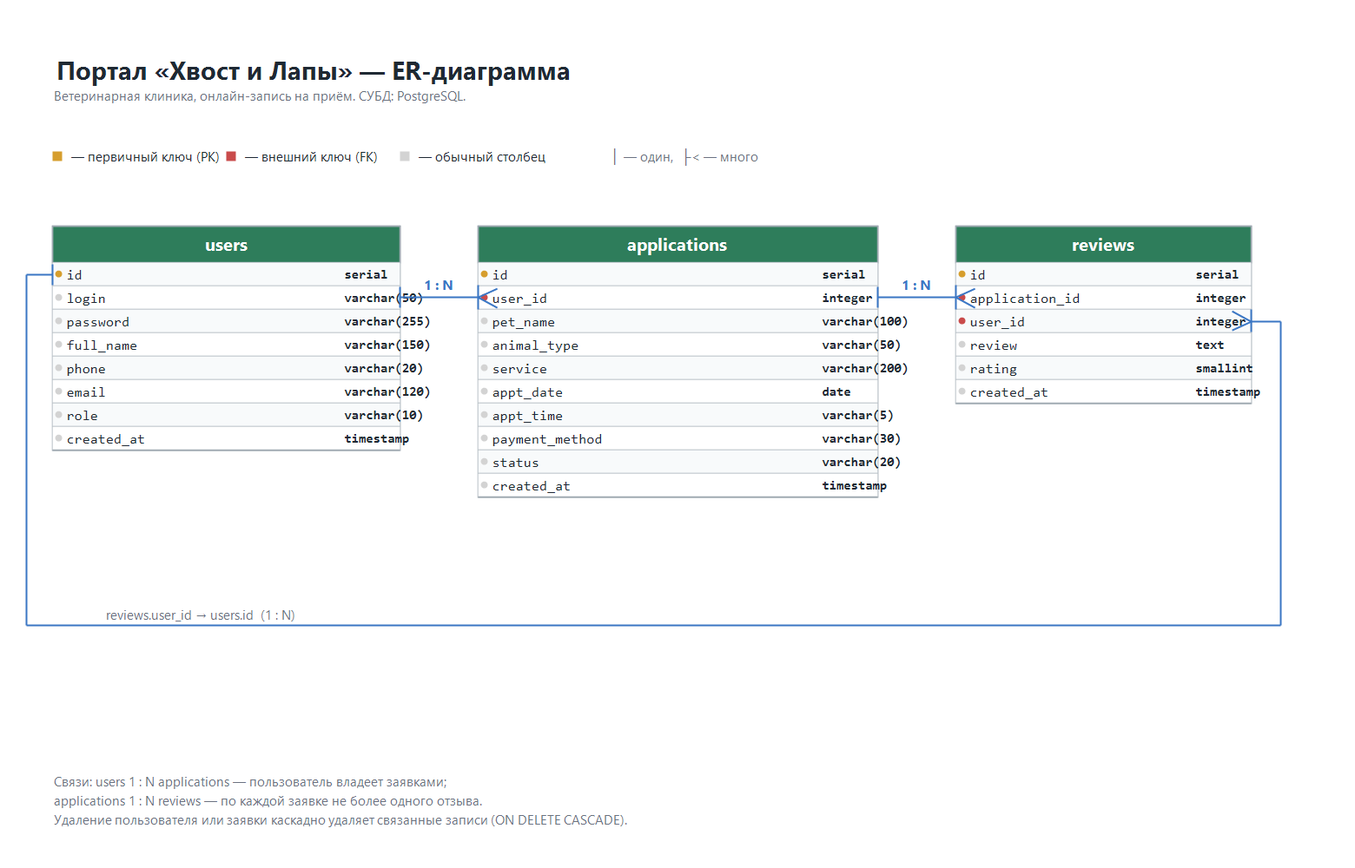
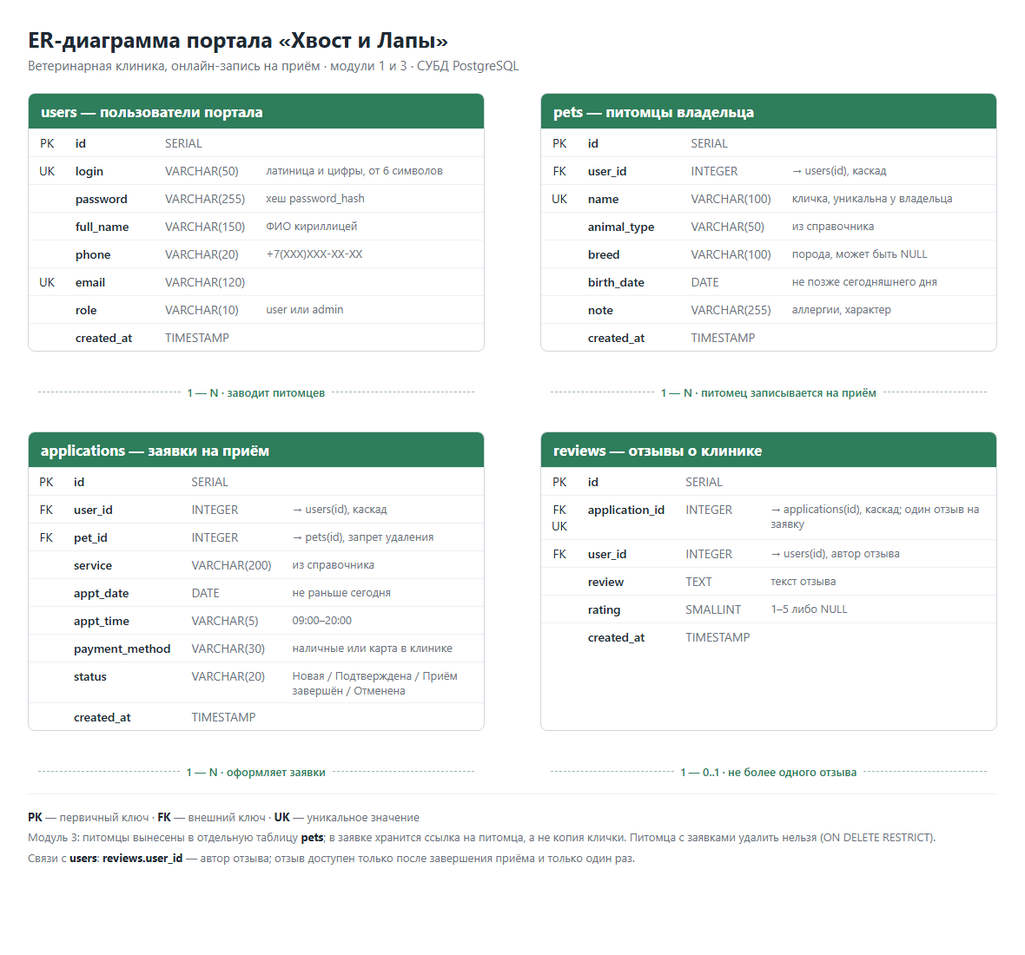
Модуль 3 конец: документация, ER-диаграмма, финальная проверка
- README переписан под итог модуля 3: профиль питомцев, отмена заявки,
  анимации, адаптивность 390/768/1280, список классов и инструментов
- er_diagram.mmd дополнен таблицей pets
- er_diagram.png перерисован: mermaid-cli в системе нет, поэтому диаграмма
  собирается из tools/er_diagram.html через Edge headless (tools/er_diagram.ps1)
- проверено: синтаксис всех PHP, node --check для app.js, смоук-тест на
  чистой базе, скриншоты 390 / 768 / 1280 px

diff --git a/tools/er_diagram.html b/tools/er_diagram.html
@@ -1,0 +1,179 @@
+<!DOCTYPE html>
+<html lang="ru">
+<head>
+    <meta charset="UTF-8">
+    <title>ER-диаграмма «Хвост и Лапы»</title>
+    <!--
+        Генератор backend/database/er_diagram.png.
+
+        mermaid-cli в системе нет, поэтому диаграмма рисуется обычным HTML
+        и снимается браузером в headless-режиме:
+
+            php -S 127.0.0.1:8088 -t .
+            powershell -NoProfile -ExecutionPolicy Bypass -File tools/er_diagram.ps1
+
+        Текстовый источник той же схемы — backend/database/er_diagram.mmd.
+    -->
+    <style>
+        * { box-sizing: border-box; }
+
+        body {
+            margin: 0;
+            padding: 28px 32px 24px;
+            width: 1180px;
+            background: #fff;
+            font-family: "Segoe UI", Arial, sans-serif;
+            color: #1f2933;
+        }
+
+        h1 { margin: 0 0 4px; font-size: 25px; }
+        p.sub { margin: 0 0 22px; color: #6b7280; font-size: 15px; }
+
+        .grid {
+            display: grid;
+            grid-template-columns: 1fr 1fr;
+            gap: 46px 64px;
+        }
+
+        .entity {
+            border: 1px solid #cfd6dd;
+            border-radius: 8px;
+            overflow: hidden;
+            background: #fff;
+        }
+
+        .entity__title {
+            padding: 9px 14px;
+            background: #2e7d5b;
+            color: #fff;
+            font-weight: 700;
+            font-size: 17px;
+        }
+
+        table { width: 100%; border-collapse: collapse; font-size: 14px; }
+
+        td {
+            padding: 6px 12px;
+            border-top: 1px solid #eef1f4;
+            vertical-align: top;
+        }
+
+        td.name { font-weight: 600; white-space: nowrap; }
+        td.type { color: #6b7280; white-space: nowrap; width: 92px; }
+        td.key  { white-space: nowrap; width: 34px; text-align: center; }
+        td.note { color: #6b7280; font-size: 13px; }
+
+        .rel {
+            display: flex;
+            align-items: center;
+            gap: 8px;
+            margin: -26px 0;
+            padding: 0 12px;
+            color: #2e7d5b;
+            font-size: 13px;
+            font-weight: 600;
+            white-space: nowrap;
+            background: #fff;
+            z-index: 2;
+        }
+
+        .rel::before,
+        .rel::after {
+            content: "";
+            flex: 1;
+            border-top: 1px dashed #9bb8ab;
+        }
+
+        .legend {
+            margin-top: 26px;
+            padding-top: 14px;
+            border-top: 1px solid #eef1f4;
+            font-size: 13px;
+            color: #6b7280;
+            line-height: 1.8;
+        }
+
+        .legend b { color: #1f2933; }
+    </style>
+</head>
+<body>
+
+<h1>ER-диаграмма портала «Хвост и Лапы»</h1>
+<p class="sub">Ветеринарная клиника, онлайн-запись на приём · модули 1 и 3 · СУБД PostgreSQL</p>
+
+<div class="grid">
+
+    <div class="entity">
+        <div class="entity__title">users — пользователи портала</div>
+        <table>
+            <tr><td class="key">PK</td><td class="name">id</td><td class="type">SERIAL</td><td class="note"></td></tr>
+            <tr><td class="key">UK</td><td class="name">login</td><td class="type">VARCHAR(50)</td><td class="note">латиница и цифры, от 6 символов</td></tr>
+            <tr><td class="key"></td><td class="name">password</td><td class="type">VARCHAR(255)</td><td class="note">хеш password_hash</td></tr>
+            <tr><td class="key"></td><td class="name">full_name</td><td class="type">VARCHAR(150)</td><td class="note">ФИО кириллицей</td></tr>
+            <tr><td class="key"></td><td class="name">phone</td><td class="type">VARCHAR(20)</td><td class="note">+7(XXX)XXX-XX-XX</td></tr>
+            <tr><td class="key">UK</td><td class="name">email</td><td class="type">VARCHAR(120)</td><td class="note"></td></tr>
+            <tr><td class="key"></td><td class="name">role</td><td class="type">VARCHAR(10)</td><td class="note">user или admin</td></tr>
+            <tr><td class="key"></td><td class="name">created_at</td><td class="type">TIMESTAMP</td><td class="note"></td></tr>
+        </table>
+    </div>
+
+    <div class="entity">
+        <div class="entity__title">pets — питомцы владельца</div>
+        <table>
+            <tr><td class="key">PK</td><td class="name">id</td><td class="type">SERIAL</td><td class="note"></td></tr>
+            <tr><td class="key">FK</td><td class="name">user_id</td><td class="type">INTEGER</td><td class="note">→ users(id), каскад</td></tr>
+            <tr><td class="key">UK</td><td class="name">name</td><td class="type">VARCHAR(100)</td><td class="note">кличка, уникальна у владельца</td></tr>
+            <tr><td class="key"></td><td class="name">animal_type</td><td class="type">VARCHAR(50)</td><td class="note">из справочника</td></tr>
+            <tr><td class="key"></td><td class="name">breed</td><td class="type">VARCHAR(100)</td><td class="note">порода, может быть NULL</td></tr>
+            <tr><td class="key"></td><td class="name">birth_date</td><td class="type">DATE</td><td class="note">не позже сегодняшнего дня</td></tr>
+            <tr><td class="key"></td><td class="name">note</td><td class="type">VARCHAR(255)</td><td class="note">аллергии, характер</td></tr>
+            <tr><td class="key"></td><td class="name">created_at</td><td class="type">TIMESTAMP</td><td class="note"></td></tr>
+        </table>
+    </div>
+
+    <div class="rel">1 — N · заводит питомцев</div>
+    <div class="rel">1 — N · питомец записывается на приём</div>
+
+    <div class="entity">
+        <div class="entity__title">applications — заявки на приём</div>
+        <table>
+            <tr><td class="key">PK</td><td class="name">id</td><td class="type">SERIAL</td><td class="note"></td></tr>
+            <tr><td class="key">FK</td><td class="name">user_id</td><td class="type">INTEGER</td><td class="note">→ users(id), каскад</td></tr>
+            <tr><td class="key">FK</td><td class="name">pet_id</td><td class="type">INTEGER</td><td class="note">→ pets(id), запрет удаления</td></tr>
+            <tr><td class="key"></td><td class="name">service</td><td class="type">VARCHAR(200)</td><td class="note">из справочника</td></tr>
+            <tr><td class="key"></td><td class="name">appt_date</td><td class="type">DATE</td><td class="note">не раньше сегодня</td></tr>
+            <tr><td class="key"></td><td class="name">appt_time</td><td class="type">VARCHAR(5)</td><td class="note">09:00–20:00</td></tr>
+            <tr><td class="key"></td><td class="name">payment_method</td><td class="type">VARCHAR(30)</td><td class="note">наличные или карта в клинике</td></tr>
+            <tr><td class="key"></td><td class="name">status</td><td class="type">VARCHAR(20)</td><td class="note">Новая / Подтверждена / Приём завершён / Отменена</td></tr>
+            <tr><td class="key"></td><td class="name">created_at</td><td class="type">TIMESTAMP</td><td class="note"></td></tr>
+        </table>
+    </div>
+
+    <div class="entity">
+        <div class="entity__title">reviews — отзывы о клинике</div>
+        <table>
+            <tr><td class="key">PK</td><td class="name">id</td><td class="type">SERIAL</td><td class="note"></td></tr>
+            <tr><td class="key">FK<br>UK</td><td class="name">application_id</td><td class="type">INTEGER</td><td class="note">→ applications(id), каскад; один отзыв на заявку</td></tr>
+            <tr><td class="key">FK</td><td class="name">user_id</td><td class="type">INTEGER</td><td class="note">→ users(id), автор отзыва</td></tr>
+            <tr><td class="key"></td><td class="name">review</td><td class="type">TEXT</td><td class="note">текст отзыва</td></tr>
+            <tr><td class="key"></td><td class="name">rating</td><td class="type">SMALLINT</td><td class="note">1–5 либо NULL</td></tr>
+            <tr><td class="key"></td><td class="name">created_at</td><td class="type">TIMESTAMP</td><td class="note"></td></tr>
+        </table>
+    </div>
+
+    <div class="rel">1 — N · оформляет заявки</div>
+    <div class="rel">1 — 0..1 · не более одного отзыва</div>
+
+</div>
+
+<div class="legend">
+    <b>PK</b> — первичный ключ · <b>FK</b> — внешний ключ · <b>UK</b> — уникальное значение<br>
+    Модуль 3: питомцы вынесены в отдельную таблицу <b>pets</b>; в заявке хранится ссылка
+    на питомца, а не копия клички. Питомца с заявками удалить нельзя
+    (<span>ON DELETE RESTRICT</span>).<br>
+    Связи с <b>users</b>: <b>reviews.user_id</b> — автор отзыва;
+    отзыв доступен только после завершения приёма и только один раз.
+</div>
+
+</body>
+</html>

diff --git a/README.md b/README.md
@@ -10,16 +10,25 @@
 
 - **Регистрация** владельца питомца с проверкой формата логина, ФИО, телефона, почты и пароля.
 - **Авторизация** с проверкой пароля на сервере (`password_hash` / `password_verify`).
-- **Личный кабинет**: список своих заявок с текущим статусом и возможность оставить отзыв
-  после завершения приёма.
+- **Профиль питомцев**: питомец добавляется один раз (кличка, вид, порода,
+  дата рождения, заметка), а при записи выбирается из списка. Питомца,
+  на которого есть заявки, удалить нельзя — иначе записи остались бы без питомца.
+- **Личный кабинет**: список своих заявок с текущим статусом, **отмена заявки**
+  в статусе «Новая» с подтверждением и отзыв после завершения приёма.
 - **Панель администратора**: сводка по статусам, фильтр по статусу и услуге,
   поиск по кличке питомца или ФИО владельца, пагинация, всплывающие сообщения,
-  управление статусами.
-- **Запись на приём** из справочников: вид животного и услуга выбираются
-  из списка, время приёма ограничено часами работы клиники (09:00–20:00).
+  управление статусами. Смена статуса происходит без перезагрузки страницы:
+  бейдж, счётчики и список доступных переходов обновляются на месте.
+- **Запись на приём** из справочников: питомец и услуга выбираются из списков,
+  дата и время — нативные поля выбора. Время приёма ограничено часами работы
+  клиники (09:00–20:00) и проверяется дважды: браузером (атрибуты `min`/`max`/`step`)
+  и сервером (`Validator::time()` → `Schedule`).
 - **Слайдер** на главной странице: 4 изображения одинакового размера,
   автосмена каждые 3 секунды, кнопки «вперёд/назад», точки, свайп на смартфоне.
-- **Адаптивный дизайн**: все страницы рассчитаны на смартфон 390×844 px;
+- **Анимации**: плавное появление карточек, анимация смены статуса,
+  микроанимации кнопок и полей (hover / focus / ошибка), выезжающие уведомления.
+  Учитывается системная настройка «уменьшить движение».
+- **Адаптивный дизайн**: проверены ширины 390, 768 и 1280 px;
   таблица заявок на узком экране превращается в карточки.
 
 ## Жизненный цикл заявки
@@ -31,7 +40,8 @@
 ```
 
 Любой переход вне этой схемы отклоняется на сервере. Отзыв доступен только
-при статусе «Приём завершён» и только один раз на заявку.
+при статусе «Приём завершён» и только один раз на заявку. Отменяет заявку
+в статусе «Новая» и администратор, и сам владелец — из кабинета.
 
 ## Учётные записи
 
@@ -53,13 +63,17 @@
 | Часы работы | 09:00–20:00                                                               |
 | Оплата      | Наличными, Картой в клинике                                               |
 
+Вид животного указывается один раз — при добавлении питомца в профиль,
+а не в каждой заявке.
+
 ## Стек
 
 - **PHP 8.2** — серверная логика, ООП-классы
 - **PostgreSQL 18** — СУБД, PDO с подготовленными запросами
 - **Bootstrap 5.3** и **bootstrap-icons** — подключены локально
   (в `frontend/assets/vendor/`), интернет не нужен
-- **JavaScript** — слайдер, мобильное меню, клиентская валидация
+- **JavaScript** — слайдер, мобильное меню, клиентская валидация,
+  анимации, отправка формы смены статуса через `fetch`
 
 ## Структура проекта
 
@@ -71,6 +85,7 @@ Practic/
 │   ├── register.php
 │   ├── applications.php
 │   ├── application_create.php
+│   ├── pets.php                   профиль питомцев
 │   ├── admin.php
 │   ├── partials/
 │   │   ├── header.php
@@ -80,28 +95,41 @@ Practic/
 │       ├── js/app.js
 │       ├── img/                   логотип и изображения слайдера (1200×675, JPEG)
 │       └── vendor/                bootstrap/, bootstrap-icons/
-└── backend/                       только логика, без HTML-вёрстки
-    ├── config.php                 подключение, учётка администратора, справочники
-    ├── bootstrap.php              сессия, автозагрузка классов, хелперы
-    ├── classes/
-    │   ├── Database.php           обёртка над PDO
-    │   ├── Validator.php          правила валидации полей
-    │   ├── Auth.php               вход, выход, проверка ролей
-    │   ├── User.php
-    │   ├── Application.php        заявки, фильтры, поиск, пагинация
-    │   └── Review.php
-    ├── actions/                   обработчики форм (POST → redirect)
-    │   ├── register.php
-    │   ├── login.php
-    │   ├── logout.php
-    │   ├── application_create.php
-    │   ├── review_create.php
-    │   └── admin_status.php
-    └── database/
-        ├── dump.sql               структура БД и ограничения
-        ├── seed.php               начальные данные
-        ├── er_diagram.png         ER-диаграмма
-        └── er_diagram.mmd         текстовая версия диаграммы (Mermaid)
+├── backend/                       только логика, без HTML-вёрстки
+│   ├── config.php                 подключение, учётка администратора, справочники
+│   ├── bootstrap.php              сессия, автозагрузка классов, хелперы
+│   ├── classes/
+│   │   ├── Database.php           обёртка над PDO
+│   │   ├── Validator.php          правила валидации полей
+│   │   ├── Auth.php               вход, выход, проверка ролей
+│   │   ├── User.php
+│   │   ├── Pet.php                питомцы профиля
+│   │   ├── Application.php        заявки, фильтры, поиск, пагинация
+│   │   ├── ApplicationFilter.php  разбор фильтров панели администратора
+│   │   ├── Schedule.php           часы работы клиники
+│   │   └── Review.php
+│   ├── actions/                   обработчики форм (POST → redirect)
+│   │   ├── register.php
+│   │   ├── login.php
+│   │   ├── logout.php
+│   │   ├── pet_create.php
+│   │   ├── pet_delete.php
+│   │   ├── application_create.php
+│   │   ├── application_cancel.php
+│   │   ├── review_create.php
+│   │   └── admin_status.php
+│   └── database/
+│       ├── dump.sql               структура БД и ограничения
+│       ├── seed.php               начальные данные
+│       ├── er_diagram.png         ER-диаграмма
+│       └── er_diagram.mmd         текстовая версия диаграммы (Mermaid)
+├── tools/                         не часть приложения: проверка и отладка
+│   ├── smoke.php                  смоук-тест всех страниц и сценариев
+│   ├── reload_db.php              пересоздание БД по dump.sql
+│   ├── viewport.html              обёртка с iframe 390 px для скриншотов
+│   ├── screenshots.ps1            снятие скриншотов 390 / 768 / 1280 px
+│   ├── er_diagram.html            разметка ER-диаграммы
+│   └── er_diagram.ps1             пересборка backend/database/er_diagram.png
 ```
 
 ## Установка
@@ -120,8 +148,8 @@ Practic/
    php backend/database/seed.php
    ```
    Скрипт `seed.php` идемпотентен: повторный запуск не создаёт дубликаты.
-   Демо-данные — 8 заявок во всех статусах и по всем услугам (хватает
-   на две страницы пагинации) и один отзыв.
+   Демо-данные — 9 питомцев и 8 заявок во всех статусах и по всем услугам
+   (хватает на две страницы пагинации) и один отзыв.
 
    Если `dump.sql` уже загружался раньше и в нём появились новые ограничения,
    таблицы нужно пересоздать заново — скрипт начинается с `DROP TABLE`.
@@ -137,6 +165,10 @@ Practic/
 - все SQL-запросы с пользовательскими данными выполняются через `prepare` / `execute`;
 - весь пользовательский вывод экранируется через `htmlspecialchars()` (`e()`);
 - проверка прав выполняется на сервере: `Auth::requireLogin()` и `Auth::requireAdmin()`;
+- питомец при записи проверяется на принадлежность владельцу
+  (`Pet::findForUser()`), поэтому подсунуть чужой `pet_id` нельзя;
+- отмена заявки доступна только её владельцу и только из статуса «Новая»;
+  чужая заявка и запись не из «Новой» отклоняются одинаковым сообщением;
 - допустимость перехода статуса проверяется на сервере перед обновлением;
 - возможность оставить отзыв определяется статусом заявки, а не только скрытием кнопки;
 - значения из адресной строки (фильтры, поиск, номер страницы) сверяются со
@@ -144,3 +176,18 @@ Practic/
 - символы-шаблоны `LIKE` экранируются, поэтому «%» в поиске ищется как буква;
 - адрес возврата после смены статуса проверяется регулярным выражением,
   подделать его можно только ссылкой внутри панели администратора.
+
+## Проверка перед сдачей
+
+```powershell
+Get-ChildItem -Recurse -Filter *.php -Path backend, frontend, tools, index.php |
+    ForEach-Object { php -l $_.FullName }
+
+php tools/reload_db.php         # пересоздать таблицы по dump.sql
+php backend/database/seed.php   # залить демо-данные
+php -S 127.0.0.1:8088 -t .      # сервер (второе окно)
+php tools/smoke.php             # ~110 проверок, код возврата 0 — всё зелёное
+powershell -NoProfile -ExecutionPolicy Bypass -File tools/screenshots.ps1
+```
+
+`tools/smoke.php` пересоздаёт базу, поэтому запускать его нужно на dev-копии.
